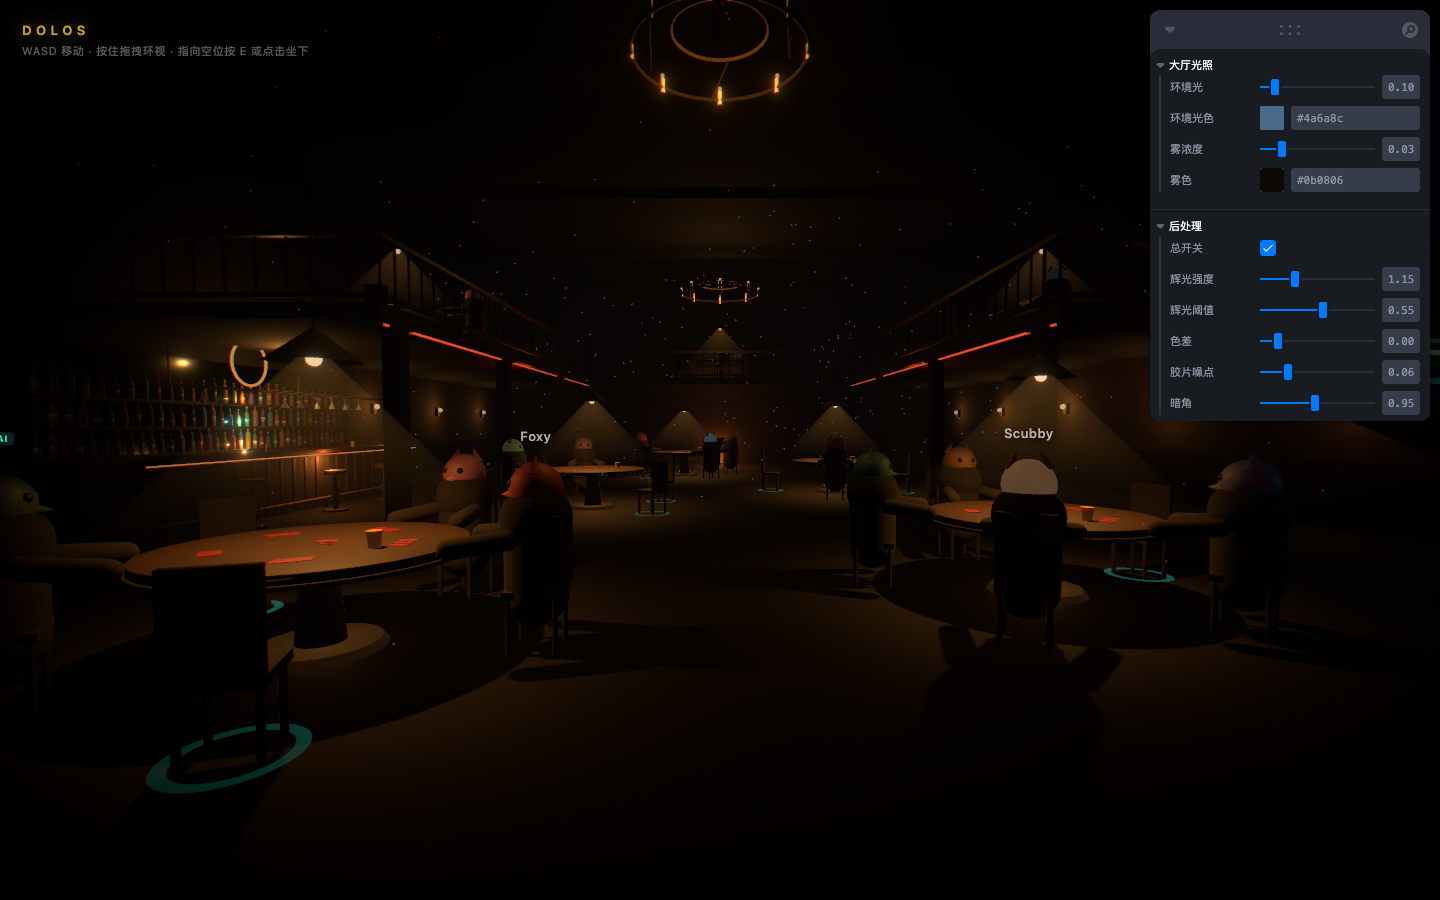
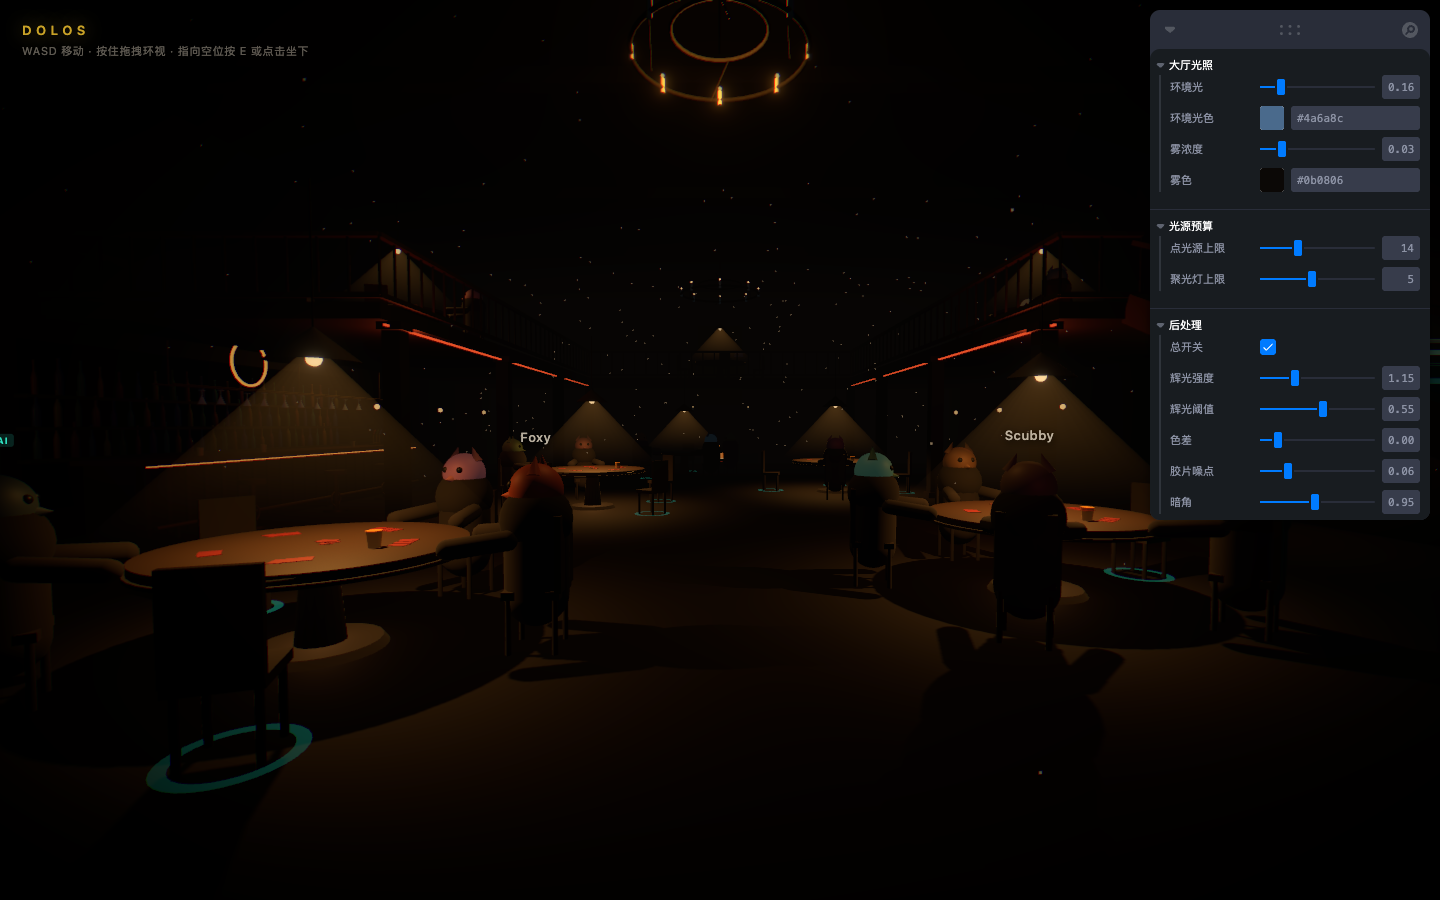
Put the atmosphere lights back, budgeted, and expose the cap as a slider
The previous commit cut lights to fix framerate and the hall visibly
flattened. The cut was aimed at the wrong targets: among the deleted lights
were the neon ones, which are what wash pink, cyan and red across the walls
and floor. An emissive strip only glows by itself; it tints nothing around
it, and losing that colour bleed costs more than it looks like it should.

With the budget system in place that trade-off does not need making. Only
the cap costs anything, not how many lights exist in the scene, so
everything is back: the three neon washes, both outer bar shelves, the
mantel candles, and the eight per-table bounce lights. The long mezzanine
strip is now three segmented lights rather than one, since a single light
leaves a lit middle with dark ends and the strip stops reading as a strip.

48 budgeted lights now, 14 lit at once. Measured curve:

  cap  8   65.0 FPS
  cap 12   66.6
  cap 14   67.0   <- default
  cap 18   57.6
  cap 24   30.6
  cap 40    9.6

There is a distinct knee at 14: everything up to it is free, past it the
frame time collapses. Default sits right at the knee, and the cap is now a
leva slider so it can be re-tuned live on slower hardware instead of
guessing.

diff --git a/src/scene/hall/Hall.tsx b/src/scene/hall/Hall.tsx
@@ -380,17 +380,14 @@ function BackBar({ width }: { width: number }) {
             <boxGeometry args={[width - 0.5, 0.012, 0.015]} />
             <meshBasicMaterial color={i === 1 ? '#5ad6c0' : '#ffb257'} toneMapped={false} />
           </mesh>
-          {/* 只有中间那层挂真光源，上下两层靠自发光灯带 + Bloom 就够了 */}
-          {i === 1 && (
-            <pointLight
-              userData={{ budget: 'point' }}
-              position={[0, y + 0.12, BAR.backZ + 0.12]}
-              intensity={1.4}
-              color="#5ad6c0"
-              distance={2.6}
-              decay={2}
-            />
-          )}
+          <pointLight
+            userData={{ budget: 'point' }}
+            position={[0, y + 0.12, BAR.backZ + 0.12]}
+            intensity={i === 1 ? 1.4 : 1.0}
+            color={i === 1 ? '#5ad6c0' : '#ffb257'}
+            distance={2.4}
+            decay={2}
+          />
         </group>
       ))}
 
@@ -639,6 +636,7 @@ function Fireplace() {
             <sphereGeometry args={[0.03, 8, 6]} />
             <meshBasicMaterial color="#ffd08a" toneMapped={false} />
           </mesh>
+          <pointLight userData={{ budget: 'point' }} position={[0, 0.16, 0]} intensity={1.6} color="#ffb257" distance={3} decay={2} />
         </group>
       ))}
 
@@ -721,6 +719,7 @@ function Neon() {
         <boxGeometry args={[3.2, 0.05, 0.03]} />
         <meshBasicMaterial color="#2ee0c0" toneMapped={false} />
       </mesh>
+      <pointLight userData={{ budget: 'point' }} position={[w / 2 - 0.7, 2.2, 9.5]} intensity={6} color="#2ee0c0" distance={7} decay={2} />
 
       {/* 二层挑台内侧的一圈暗红灯带，从楼下抬头能看到，勾出上层轮廓 */}
       {[-5.0, 5.0].map((x, i) => (
@@ -729,12 +728,27 @@ function Neon() {
           <meshBasicMaterial color="#ff5a2e" toneMapped={false} />
         </mesh>
       ))}
+      {/* 长灯带用三盏分段代表，只有一盏时中间亮两头黑，条就断了 */}
+      {[-5.0, 5.0].flatMap((x) =>
+        [-9.5, -3.3, 2.9].map((z) => (
+          <pointLight
+            key={`${x}:${z}`}
+            userData={{ budget: 'point' }}
+            position={[x, FLOOR2_Y - 0.5, z]}
+            intensity={3.2}
+            color="#ff5a2e"
+            distance={6.5}
+            decay={2}
+          />
+        )),
+      )}
 
       {/* 吧台上方的环形招牌 */}
       <mesh position={[-9.6, 2.95, 0.5]} rotation={[0, Math.PI / 2, 0]}>
         <torusGeometry args={[0.46, 0.026, 12, 40]} />
         <meshBasicMaterial color="#ffb257" toneMapped={false} />
       </mesh>
+      <pointLight userData={{ budget: 'point' }} position={[-8.9, 2.95, 0.5]} intensity={5} color="#ffb257" distance={6} decay={2} />
     </group>
   )
 }

diff --git a/src/scene/LightBudget.tsx b/src/scene/LightBudget.tsx
@@ -1,10 +1,7 @@
 import { useRef } from 'react'
 import { useFrame } from '@react-three/fiber'
+import { useControls } from 'leva'
 import * as THREE from 'three'
-
-/** 同时点亮的点光源 / 聚光灯上限 */
-const MAX_POINT = 8
-const MAX_SPOT = 4
 
 type Entry = { light: THREE.Light; d2: number }
 
@@ -16,14 +13,23 @@ type Entry = { light: THREE.Light; d2: number }
  * 灯的数量是这类场景最容易失控、也最贵的一项。反射地板和后处理相比之下
  * 几乎不要钱（关掉只回收 1 FPS）。
  *
+ * **有了这套之后，场景里挂多少盏灯几乎不影响帧率，只有上限值才要钱。**
+ * 所以该往回加的氛围灯就大胆加 —— 尤其是霓虹那几盏，它们负责把颜色
+ * 染到墙面和地板上，自发光条只是自己亮，不会给周围上色，缺了整个画面会发平。
+ *
  * **关键细节：可见的盏数必须恒定。** three 是按灯的数量来编译着色器的，
- * 数量一变就要重编译，走动时会一顿一顿。所以这里永远点亮恰好 MAX 盏，
+ * 数量一变就要重编译，走动时会一顿一顿。所以这里永远点亮恰好 max 盏，
  * 只是换哪几盏 —— 换灯不换数量，就不会触发重编译。
  *
  * 远处那些灯本来也没用：它们都设了 distance 衰减范围，隔着十几米
  * 对画面的贡献基本是 0，关掉看不出来。
  */
 export function LightBudget() {
+  const c = useControls('光源预算', {
+    maxPoint: { value: 14, min: 2, max: 40, step: 1, label: '点光源上限' },
+    maxSpot: { value: 5, min: 1, max: 10, step: 1, label: '聚光灯上限' },
+  })
+
   const frame = useRef(0)
   const points = useRef<THREE.Light[]>([])
   const spots = useRef<THREE.Light[]>([])
@@ -33,10 +39,10 @@ export function LightBudget() {
   useFrame(({ scene, camera }) => {
     frame.current++
     // 每 10 帧重排一次。玩家 3.1 m/s，1/6 秒最多移动半米，
-    // 不可能在这期间让"最近的八盏"发生有意义的变化。
+    // 不可能在这期间让"最近的若干盏"发生有意义的变化。
     if (frame.current % 10 !== 1) return
 
-    // 灯是静态的，收集一次就够；数量变了（HMR）再重收
+    // 灯是静态的，收集一次就够
     if (points.current.length + spots.current.length === 0) {
       scene.traverse((o) => {
         const l = o as THREE.Light
@@ -46,8 +52,8 @@ export function LightBudget() {
       })
     }
 
-    apply(points.current, MAX_POINT)
-    apply(spots.current, MAX_SPOT)
+    apply(points.current, c.maxPoint)
+    apply(spots.current, c.maxSpot)
 
     function apply(list: THREE.Light[], max: number) {
       if (list.length <= max) {

diff --git a/src/scene/hall/TableUnit.tsx b/src/scene/hall/TableUnit.tsx
@@ -148,10 +148,18 @@ function Lamp({ castShadows }: { castShadows: boolean }) {
         shadow-normalBias={0.02}
       />
       {/*
-        原来这里还有一盏"桌下反弹光"补下半身的死黑。八张桌子就是八盏，
-        性价比太差 —— 删掉之后靠环境光补回来，画面差别几乎看不出。
-        每加一件家具就顺手挂一盏灯，是这个场景掉到 9 FPS 的直接原因。
+        桌下反弹光，补下半身的死黑。八张桌子就是八盏，一度因为性能全删了，
+        后来发现是删错了对象 —— 挂上预算标记之后，远处那些自动熄灭，
+        真正花钱的只有你面前这一两张桌子。
       */}
+      <pointLight
+        userData={{ budget: 'point' }}
+        position={[0, 0.25, 0]}
+        intensity={1.1}
+        color="#8a5a2e"
+        distance={3.4}
+        decay={2}
+      />
     </group>
   )
 }

diff --git a/README.md b/README.md
@@ -135,6 +135,28 @@ fakeDriver（本地假说话数据）和 webrtcDriver（真实音轨走 Analyser
 
 **最终 70.8 FPS，一帧 14.1ms** —— 从 103ms 降了 7.3 倍。
 
+### 然后把灯加回去了
+
+第一版修复里我顺手删掉了一批灯，结果画面明显发平 —— **删错了对象**。
+被删的里面有霓虹那几盏，它们负责把粉/青/红**染到墙面和地板上**；
+自发光条只是自己亮，不会给周围上色，那层色彩渗透没了整个画面就垮一档。
+
+有了预算系统之后这个取舍根本不需要做：**场景里挂多少盏灯几乎不影响帧率，
+只有上限值才要钱。** 所以全加回来了，现在场景里有 48 盏可调度的灯，
+同时只点 14 盏。leva 面板里的「光源预算」可以实时拖：
+
+| 点光源上限 | FPS |
+|---|---|
+| 8 | 65 |
+| 12 | 66.6 |
+| **14（默认）** | **67** |
+| 18 | 57.6 |
+| 24 | 30.6 |
+| 40 | 9.6 |
+
+曲线在 14 附近有个明显的膝盖：**到这儿之前基本免费，过了就开始塌。**
+氛围灯该加就加，只要都挂上 `userData={{ budget: 'point' }}`。
+
 ## 踩过的坑（别再踩一遍）
 
 **移动方向绕 Y 轴旋转的符号写错，W/S 整个颠倒。** 正确形式是
